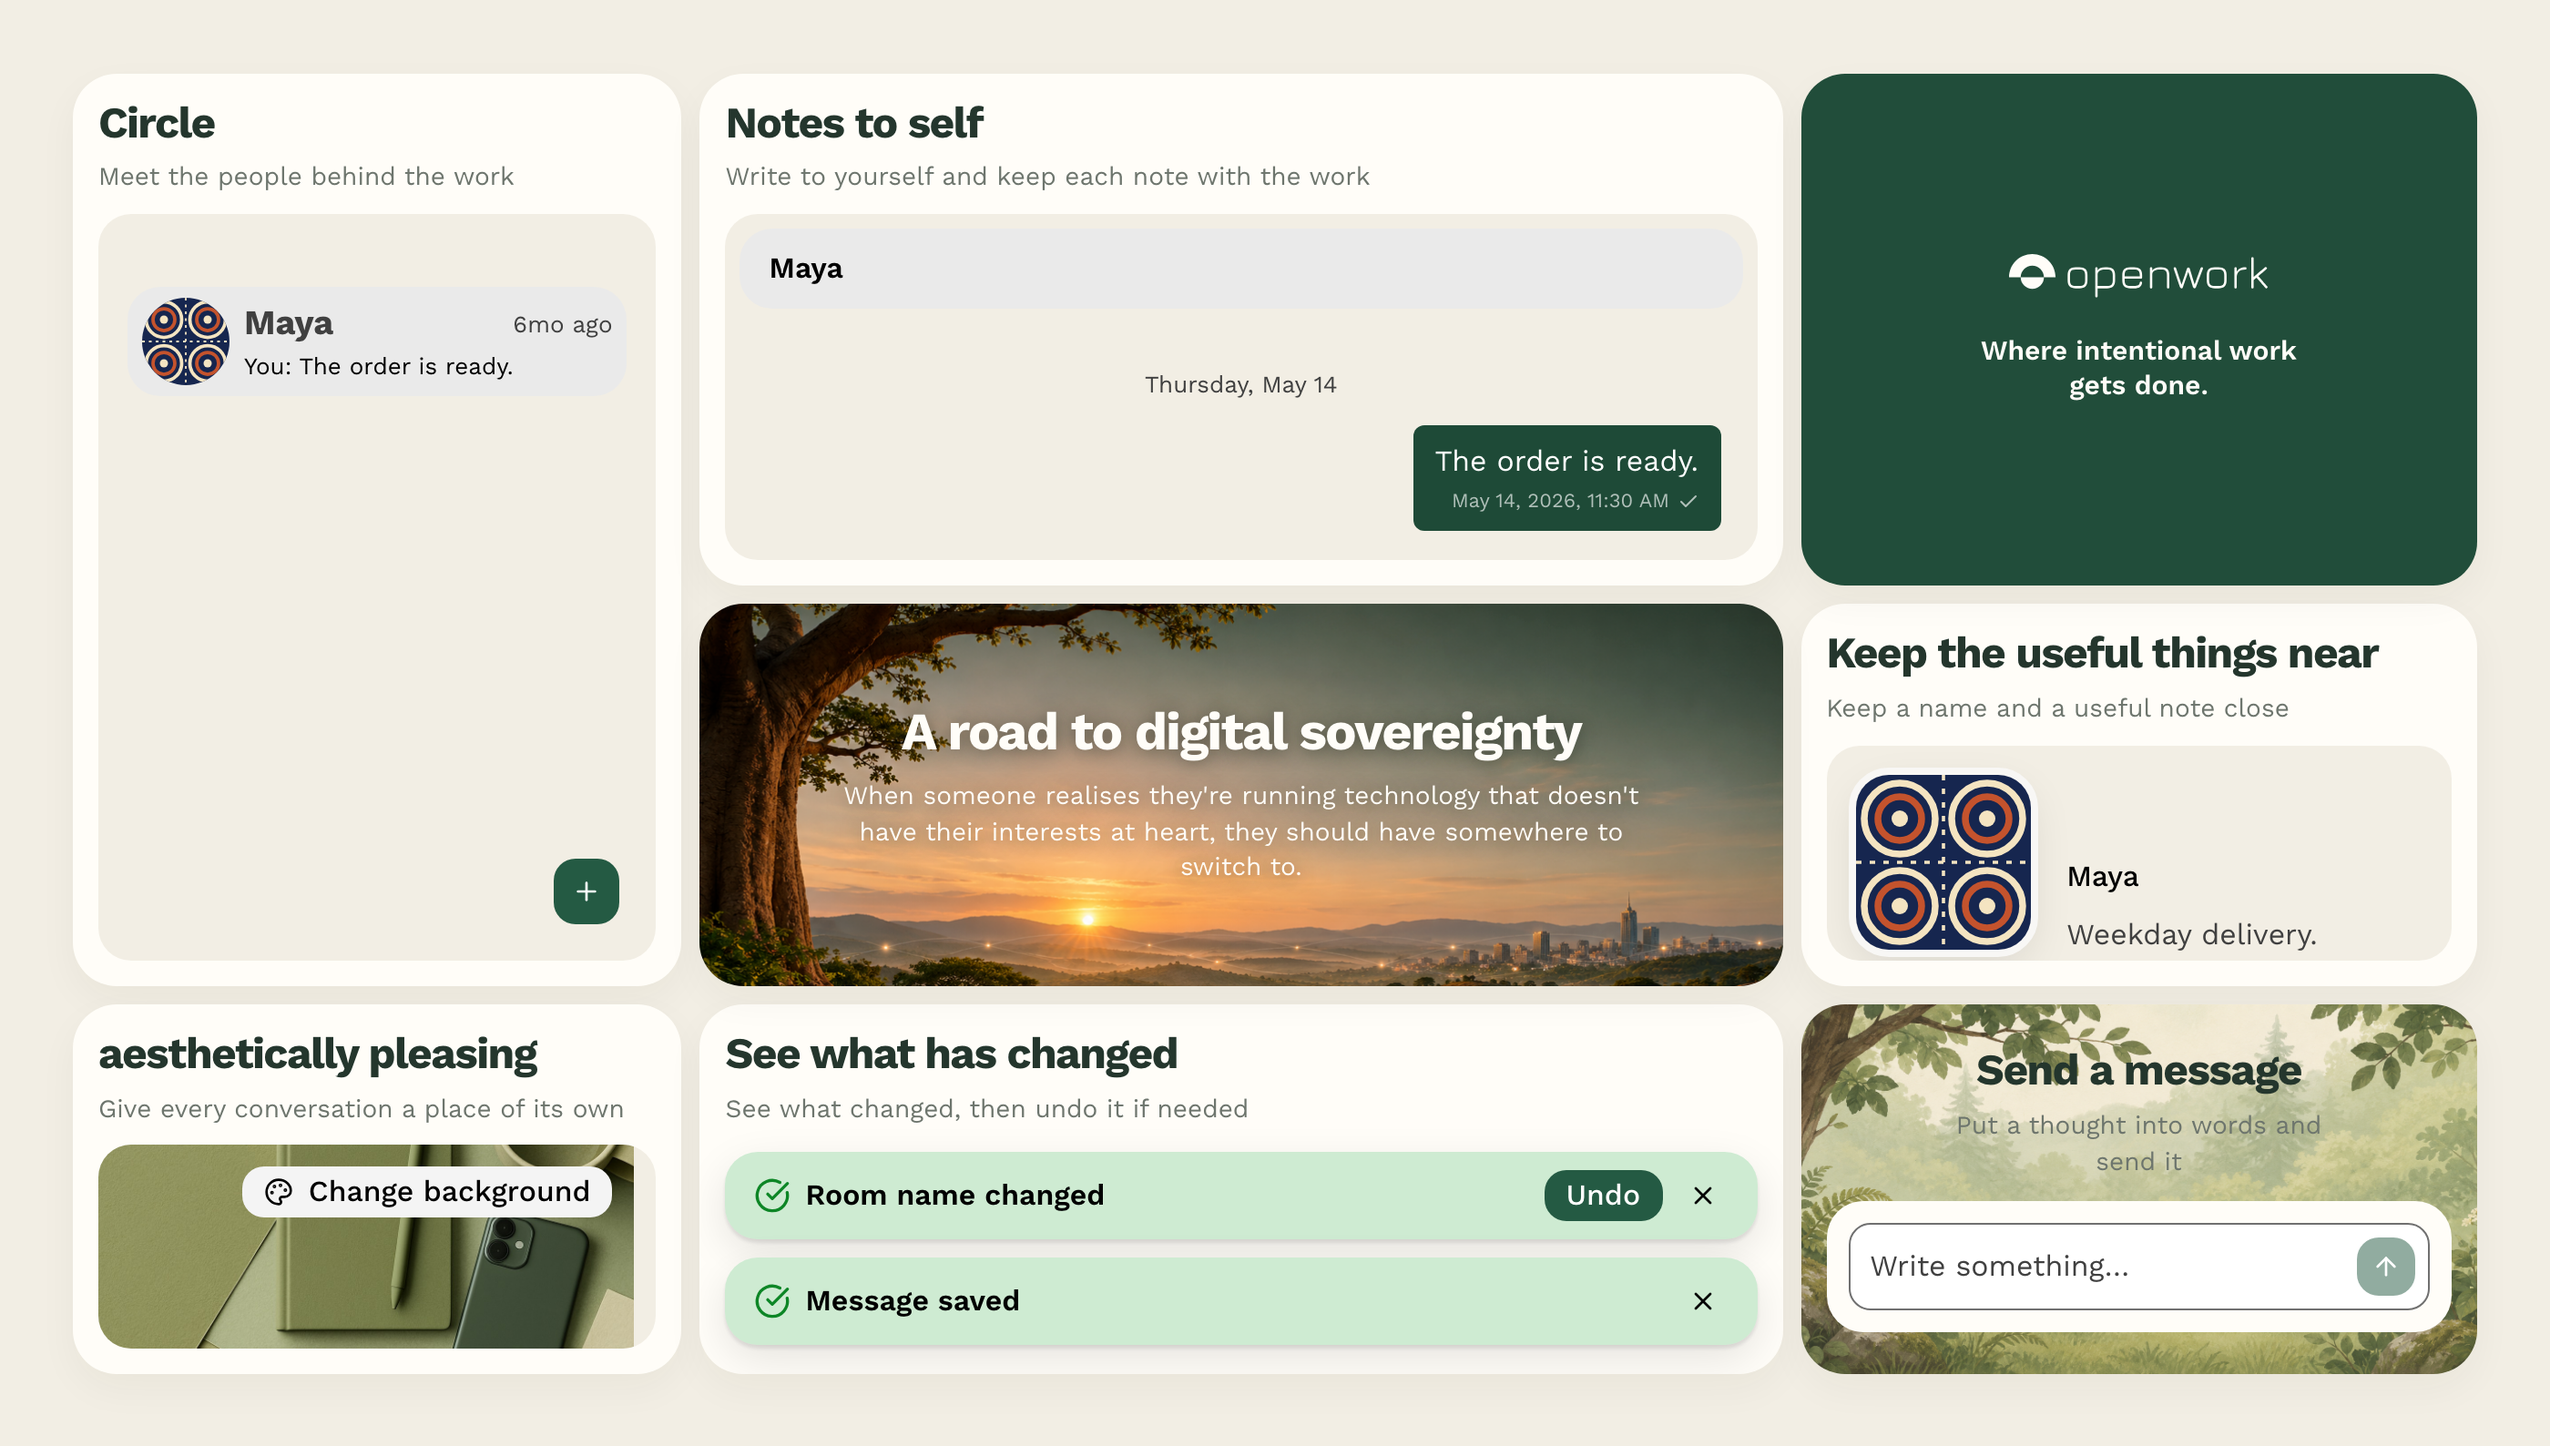
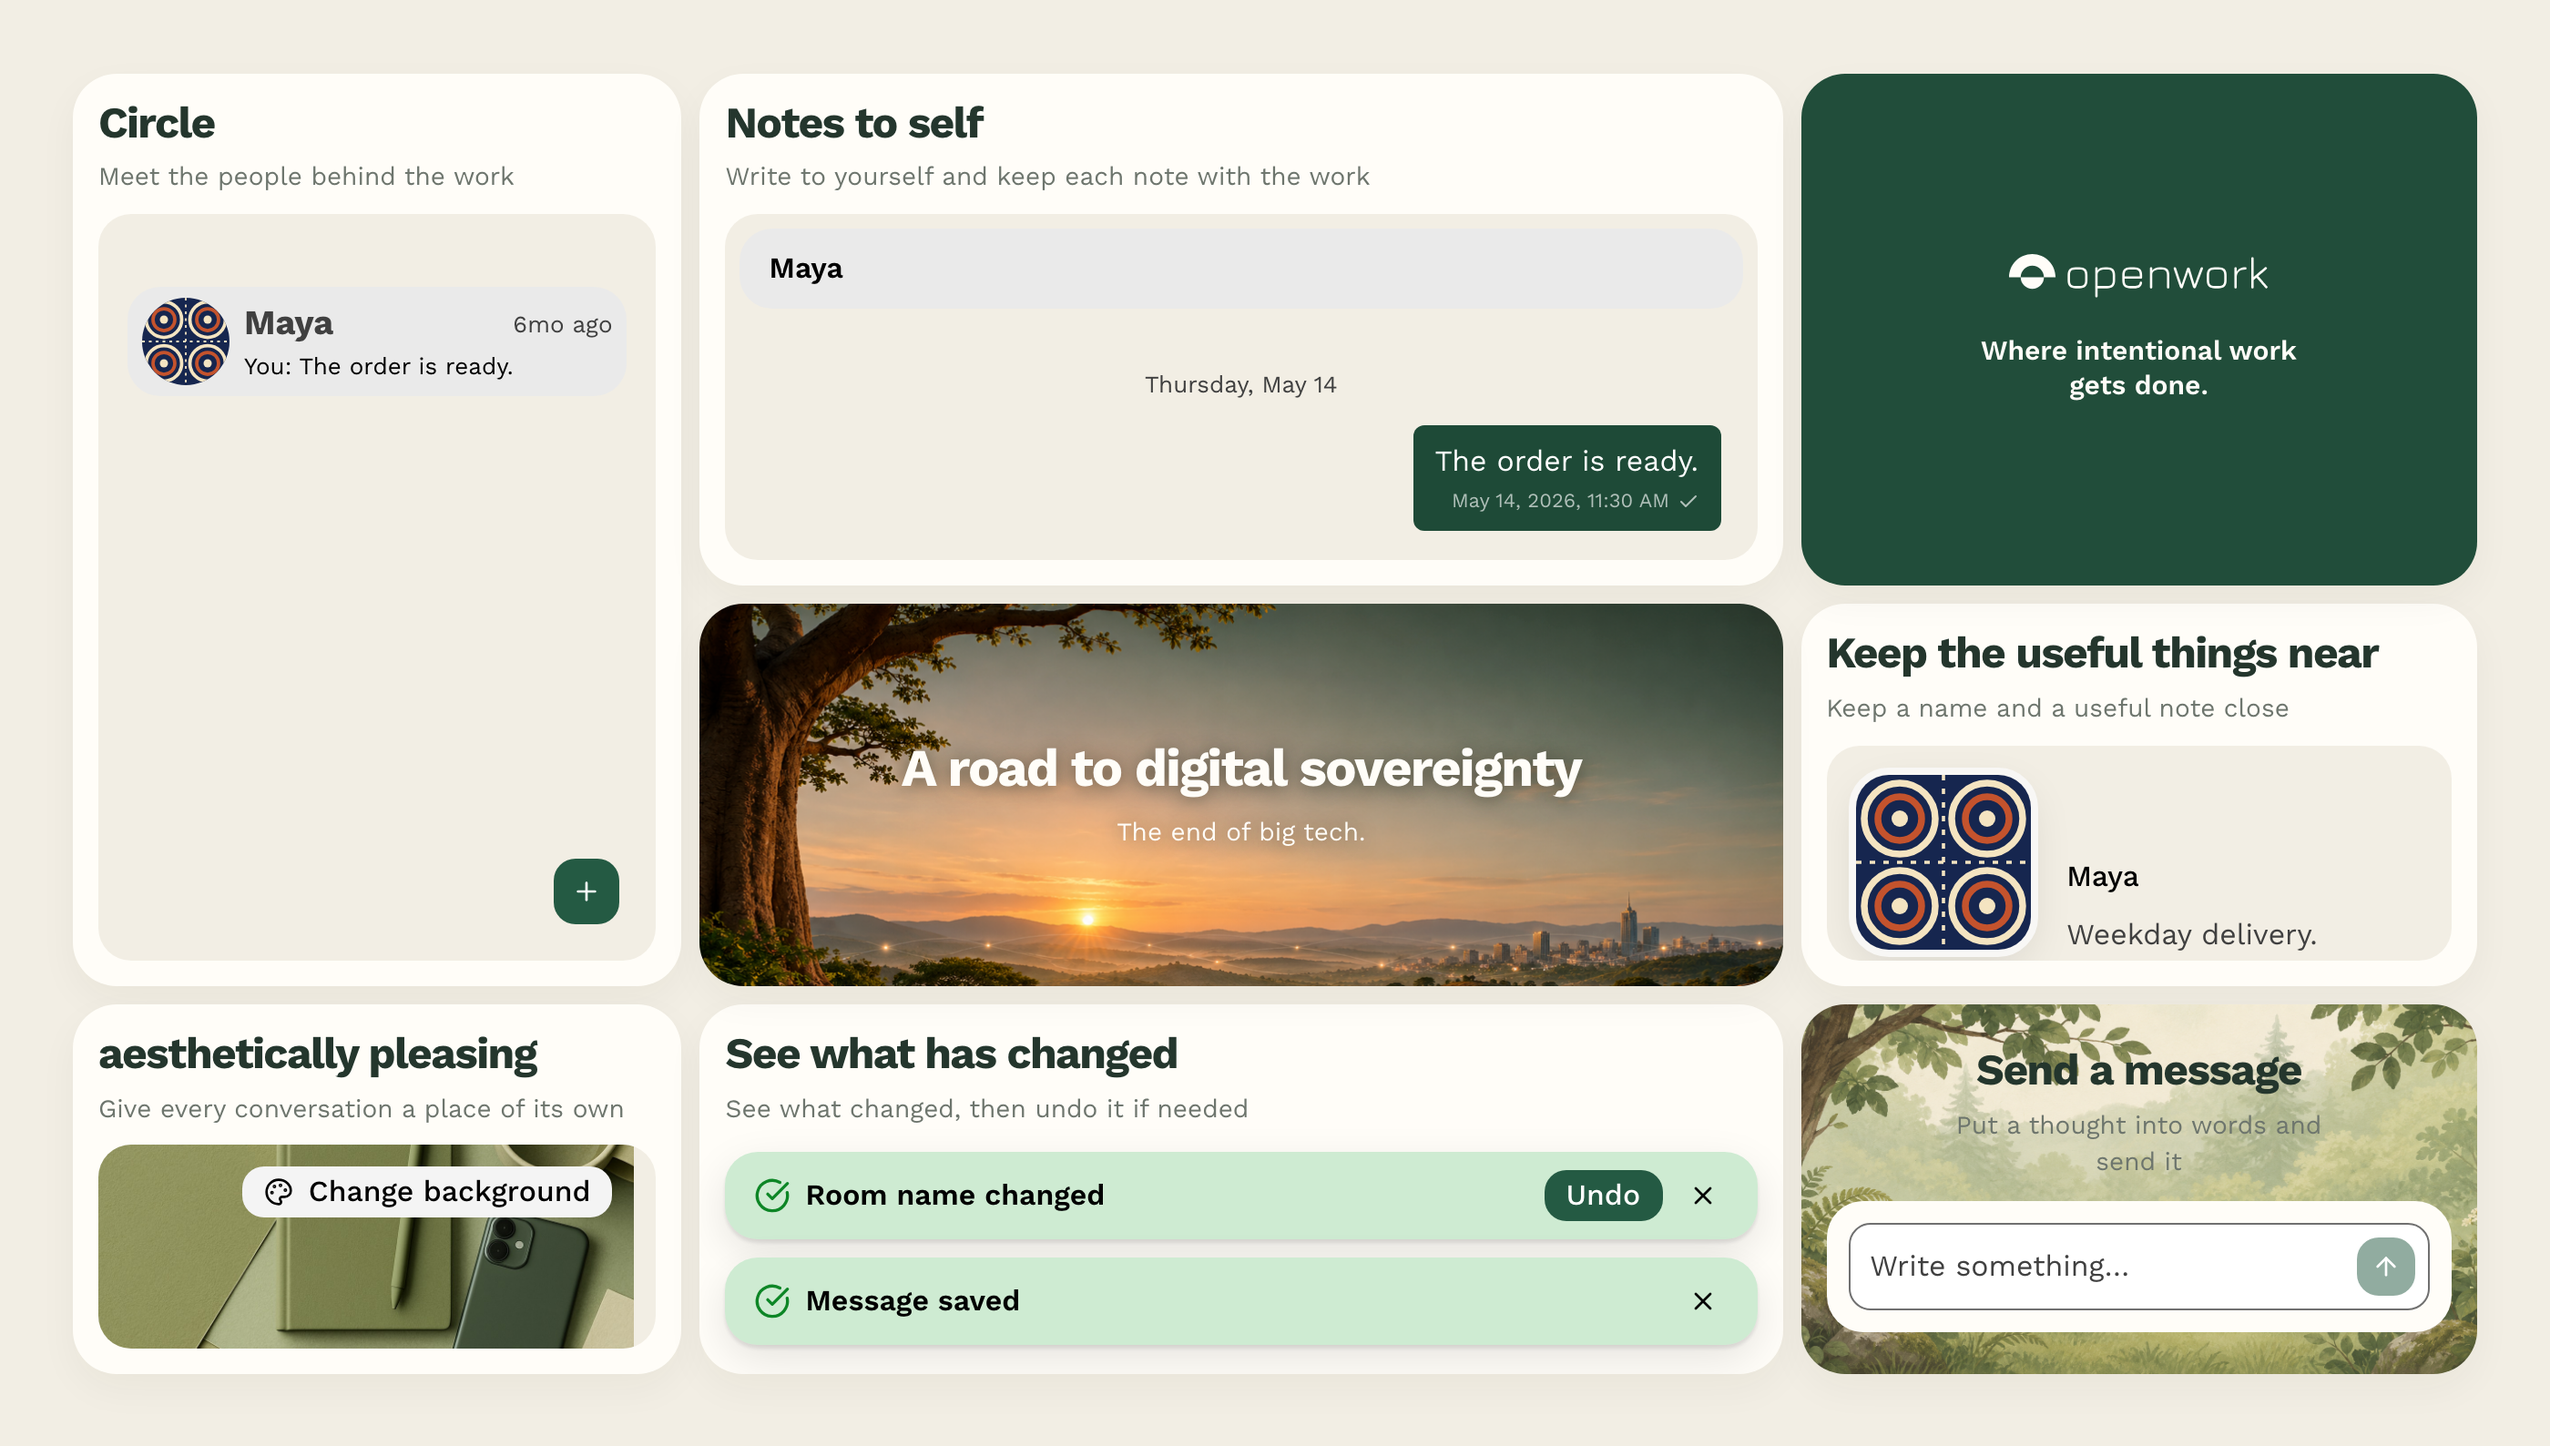
Restore the sovereignty card line and recapture the README image

Changed region(s): [[0.3418, 0.4937, 0.6214, 0.6171]]

diff --git a/app/components.tsx b/app/components.tsx
@@ -139,7 +139,7 @@ function Showcase(): ReactElement {
         <a className="showcase-item showcase-sovereignty" href="https://github.com/openwork-africa/openwork/blob/main/docs/why.md">
           <div className="showcase-copy">
             <h2>A road to digital sovereignty</h2>
-            <p>When someone realises they're running technology that doesn't have their interests at heart, they should have somewhere to switch to.</p>
+            <p>The end of big tech.</p>
           </div>
         </a>
         <article className="showcase-item showcase-brand">
